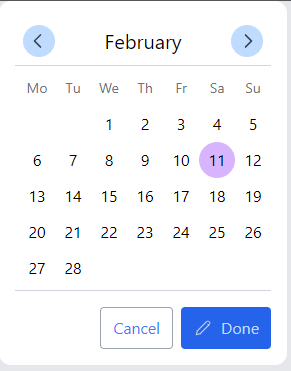
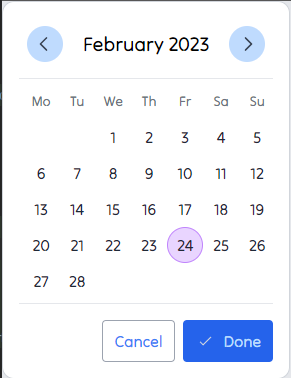
update readme + img example

diff --git a/README.md b/README.md
@@ -1,6 +1,29 @@
-# Just a classic datepicker for vue3
-
-# NOT YET READY
-
+# Just a classic datepicker library for vue3
 
 ![example](https://github.com/rmingon/vue3-datepicker/blob/main/example.png?raw=true)
+
+## Demo 
+
+
+
+## Install
+
+```bash
+    npm i vue3-simple-datepicker --save
+```
+
+## Usage
+
+```javascript
+<template>
+  <Datepicker v-model="date"/>
+</template>
+
+<script setup>
+    import Datepicker from 'vue3-simple-datepicker';
+
+    const date = ref(new Date());
+</script>
+```
+
+
